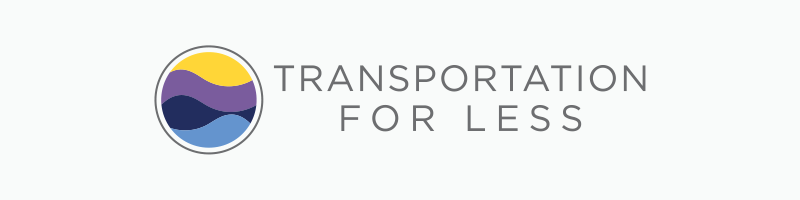
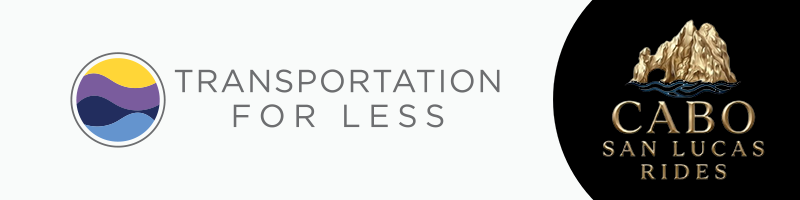
fix: update snedmail

diff --git a/source/assets/php/sendmail.php b/source/assets/php/sendmail.php
@@ -7,7 +7,7 @@ if ($_SERVER['REQUEST_METHOD'] == 'OPTIONS') {
 
 header("Access-Control-Allow-Headers: Content-Type, Accept, Origin");
 header("Content-Type: application/json; charset=UTF-8");
-header('Access-Control-Allow-Origin: https://transportationforless.com');
+header('Access-Control-Allow-Origin: https://cabosanlucasrides.com');
 header("Access-Control-Allow-Methods: GET, PUT, POST, DELETE, OPTIONS");
 header("Access-Control-Max-Age: 3600");
 
@@ -56,7 +56,7 @@ $headers .= "Bcc: mario.castro.gallegos@gmail.com \r\n";
 $headers .= "MIME-Version: 1.0\r\n";
 $headers .= "Content-Type: text/html; charset=ISO-8859-1\r\n";
 $to = "transportationforless@gmail.com, $Email";
-$subject = "TFL-$PickupDate-$numero_reserva from Transportation For Less";
+$subject = "TFL-$PickupDate-$numero_reserva from Cabo San Lucas Rides";
 $validationOK=true;
 
 if ($validationOK) {
@@ -69,27 +69,27 @@ if ($validationOK) {
     $message .= "</head>\n";
     $message .= "<body>\n";
     $message .= "<table style=\"border: 2px solid #000; font-size: 14px; text-align: center; width: 800px;\">\n";
-    $message .= "<tr style=\"width: 796px\"><td colspan=2 style=\"background: url(http://transportationforless.com/images/backgrounds/header-banner.jpg) no-repeat; height: 200px; width: 796px;\"></td></tr>\n";
-    $message .= "<tr style=\"width: 796px\"><td colspan=2><h1 style=\"font-size: 24px;text-align: center;margin: 0;padding: 0;color: #000; width: 100%;\">Reservation Number: TFL-$PickupDate-$numero_reserva</h1></td></tr>\n";
+    $message .= "<tr style=\"width: 796px\"><td colspan=2 style=\"background: url(http://cabosanlucasrides.com/images/backgrounds/header-banner.jpg) no-repeat; height: 200px; width: 796px;\"></td></tr>\n";
+    $message .= "<tr style=\"width: 796px\"><td colspan=2><h1 style=\"font-size: 24px;text-align: center;margin: 0;padding: 0;color: #000; width: 100%;\">Reservation Number: CSLR-$PickupDate-$numero_reserva</h1></td></tr>\n";
     $message .= "<tr style=\"width: 796px\"><td colspan=2 style=\"margin: 0;padding: 5px; font-size: 16px; text-align: center; width: 100%;\">Dear <strong>$Name</strong> thanks for chosing us, for your transportation service.</td></tr>\n";
-    $message .= "<tr style=\"width: 796px\"><td colspan=2 style=\"margin: 0;padding: 5px; font-size: 14px; text-align: center; width: 100%;\">YOUR TRANSPORTATION IS CONFIRMED WITH TRANSPORTATION FOR LESS</td></tr>\n";
-    $message .= "<tr style=\"width: 796px\"><td colspan=2 style=\"background-color: #bcadce; color: #fff; margin: 0; padding: 5px; font-size: 14px; text-align: center; width: 100%;\">CLIENT INFORMATION</td></tr>\n";
+    $message .= "<tr style=\"width: 796px\"><td colspan=2 style=\"margin: 0;padding: 5px; font-size: 14px; text-align: center; width: 100%;\">YOUR TRANSPORTATION IS CONFIRMED WITH TRANSPORTATION FOR LESS / CABO SAN LUCAS RIDES</td></tr>\n";
+    $message .= "<tr style=\"width: 796px\"><td colspan=2 style=\"background-color: #212121; color: #fff; margin: 0; padding: 5px; font-size: 14px; text-align: center; width: 100%;\">CLIENT INFORMATION</td></tr>\n";
     $message .= "<tr style=\"width: 796px\"><td colspan=1 style=\"margin: 0;padding: 5px; font-size: 14px; width: 50%;\"><strong>Name: </strong>$Name</td><td colspan=1 style=\"margin: 0;padding: 5px; font-size: 14px; width: 50%;\"><strong>Email: </strong>$Email</td></tr>\n";
     $message .= "<tr style=\"width: 796px\"><td colspan=1 style=\" margin: 0;padding: 5px; font-size: 14px; width: 50%;\"><strong>Phone: </strong>$Phone</td><td colspan=1 style=\"margin: 0;padding: 5px; font-size: 14px; width: 50%;\"><strong>Hotel: </strong>$Hotel</td></tr>\n";
     $message .= "<tr style=\"width: 796px\"><td colspan=1 style=\" margin: 0;padding: 5px; font-size: 14px; width: 50%;\"><strong>Passengers: </strong>$Pax</td><td colspan=1 style=\"margin: 0;padding: 5px; font-size: 14px; width: 50%;\"><strong>Travel type: </strong>$Service</td</tr>\n";
     if ($ServiceType === 'Airport - Hotel') {
-        $message .= "<tr style=\"width: 796px\"><td colspan=2 style=\"background-color: #bcadce; color: #fff; margin: 0; padding: 5px; font-size: 14px; text-align: center; width: 100%;\">ARRIVAL INFORMATION</td></tr>\n";
+        $message .= "<tr style=\"width: 796px\"><td colspan=2 style=\"background-color: #212121; color: #fff; margin: 0; padding: 5px; font-size: 14px; text-align: center; width: 100%;\">ARRIVAL INFORMATION</td></tr>\n";
     } else {
-        $message .= "<tr style=\"width: 796px\"><td colspan=2 style=\"background-color: #bcadce; color: #fff; margin: 0; padding: 5px; font-size: 14px; text-align: center; width: 100%;\">DEPARTURE INFORMATION</td></tr>\n";
+        $message .= "<tr style=\"width: 796px\"><td colspan=2 style=\"background-color: #212121; color: #fff; margin: 0; padding: 5px; font-size: 14px; text-align: center; width: 100%;\">DEPARTURE INFORMATION</td></tr>\n";
     }
     $message .= "<tr style=\"width: 796px\"><td colspan=1 style=\"margin: 0;padding: 5px; font-size: 14px; width: 50%;\"><strong>Pick up: </strong>$FromLocation</td><td colspan=1 style=\" margin: 0;padding: 5px; font-size: 14px; width: 50%;\"><strong>Pick up Date: </strong>$PickupDateFull at $PickupTime</td></tr>\n";
     $message .= "<tr style=\"width: 796px\"><td colspan=1 style=\"margin: 0;padding: 5px; font-size: 14px; width: 50%;\"><strong>Airline: </strong>$ArrivalAirline</td><td colspan=1 style=\" margin: 0;padding: 5px; font-size: 14px; width: 50%;\"><strong>Flight: </strong>$ArrivalFlight</td></tr>\n";
     if($Service === 'Round trip') {
-        $message .= "<tr style=\"width: 796px\"><td colspan=2 style=\"background-color: #bcadce; color: #fff; margin: 0; padding: 5px; font-size: 14px; text-align: center; width: 100%;\">DEPARTURE INFORMATION</ts></tr>\n";
+        $message .= "<tr style=\"width: 796px\"><td colspan=2 style=\"background-color: #212121; color: #fff; margin: 0; padding: 5px; font-size: 14px; text-align: center; width: 100%;\">DEPARTURE INFORMATION</ts></tr>\n";
         $message .= "<tr style=\"width: 796px\"><td colspan=1 style=\"margin: 0;padding: 5px; font-size: 14px; width: 50%;\"><strong>Return: </strong>$ToLocation</td><td colspan=1 style=\" margin: 0;padding: 5px; font-size: 14px; width: 50%;\"><strong>Return Date: </strong>$ReturnDateFull at $ReturnTime</td></tr>\n";
         $message .= "<tr style=\"width: 796px\"><td colspan=1 style=\"margin: 0;padding: 5px; font-size: 14px; width: 50%;\"><strong>Airline: </strong>$DepartureAirline</td><td colspan=1 style=\"margin: 0;padding: 5px; font-size: 14px; width: 50%;\"><strong>Flight: </strong>$DepartureFlight</td></tr>\n";
     }
-    $message .= "<tr style=\"width: 796px\"><td colspan=2 style=\"background-color: #bcadce; color: #fff;  margin: 0; padding: 5px; font-size: 14px; text-align: center; width: 100%;\">ADITIONAL INFORMATION</th></tr>\n";
+    $message .= "<tr style=\"width: 796px\"><td colspan=2 style=\"background-color: #212121; color: #fff;  margin: 0; padding: 5px; font-size: 14px; text-align: center; width: 100%;\">ADITIONAL INFORMATION</th></tr>\n";
     $message .= "<tr style=\"width: 796px\"><td colspan=1 style=\"margin: 0;padding: 5px; font-size: 14px; width: 50%;\"><strong>Vehicle: </strong>$UnitSelected</td>\n";
     if($PaymentType  === 'Cash'){
         $message .= "<td colspan=2 style=\"border: 0px solid #000; margin: 0;padding: 5px; font-size: 14px; height: 30px; line-height: 30px; text-align: left; width: 100%;\"><strong>Price: </strong> $PriceCash USD **Please be prepared to pay in CASH directly to the driver</td></tr>\n";
@@ -99,11 +99,11 @@ if ($validationOK) {
     $message .= "<tr style=\"width: 796px\"><td colspan=1 style=\"padding: 5px; font-size: 14px; width: 50%;\"><strong>Comments: </strong>$Comments</td><td colspan=1 style=\"padding: 5px; font-size: 14px; width: 100%;\"><strong>Promo Code: </strong>$Promo</td></tr>\n";
     $message .= "<tr style=\"width: 796px\"><td colspan=1 style=\"margin: 0;padding: 5px; font-size: 14px; width: 50%;\"><strong>Grocery Stop: </strong>$ExtrasGrocery</td><td colspan=1 style=\"margin: 0;padding: 5px; font-size: 14px; width: 50%;\"><strong>Baby Seat: </strong>$ExtrasBabyseat | <strong>Car Seat: </strong> $ExtrasBoosterseat</td></tr>\n";
     if($ServiceType === 'Airport - Hotel'){
-        $message .= "<tr style=\"width: 796px\"><th colspan=2 style=\"background-color: #bcadce; color: #fff; margin: 0; padding: 5px; font-size: 14px; text-align: center; width: 100%;\">UPON ARRIVAL</th></tr>\n";
+        $message .= "<tr style=\"width: 796px\"><th colspan=2 style=\"background-color: #212121; color: #fff; margin: 0; padding: 5px; font-size: 14px; text-align: center; width: 100%;\">UPON ARRIVAL</th></tr>\n";
         $message .= "<tr style=\"width: 796px\"><td colspan=2 style=\"margin: 0; padding: 5px; font-size: 14px; text-align: center; width: 100%;\">When you arrive at the San Jose del Cabo International Airport, and after crossing custom you will see Timeshare people. Do not stop with the timeshare vendors inside the airport, they will try to confuse you, we do not know any of them. For assistence call to +52 6241085583.</td></tr>\n";
     }
     if($ServiceType === 'Hotel - Airport'){
-        $message .= "<tr style=\"width: 796px\"><th colspan=2 style=\"background-color: #bcadce; color: #fff; margin: 0; padding: 5px; font-size: 14px; text-align: center; width: 100%;\">UPON DEPARTURE</th></tr>\n";
+        $message .= "<tr style=\"width: 796px\"><th colspan=2 style=\"background-color: #212121; color: #fff; margin: 0; padding: 5px; font-size: 14px; text-align: center; width: 100%;\">UPON DEPARTURE</th></tr>\n";
         $message .= "<tr style=\"width: 796px\"><td colspan=2 style=\"margin: 0; padding: 5px; font-size: 14px; text-align: center; width: 100%;\">When you departure from your Hotel, we will be there waiting for you in the lobby. If you have any question please contact us, will be a pleasure to assit you. For assistence call to +52 6241085583.</td></tr>\n";
     }
     $message .= "<tr style=\"width: 796px\"><td colspan=2 style=\"margin: 0;padding: 5px; font-size: 14px; width: 100%;\"><strong>Pickup Time: _________ TBC</strong></td></tr>\n";
